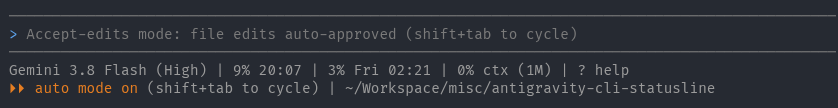
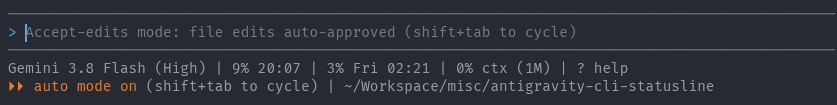
update screenshots

diff --git a/README.md b/README.md
@@ -8,6 +8,8 @@ A two-row statusline for the Antigravity CLI (`agy`) that displays active model 
 
 ![Antigravity CLI statusline in auto mode](assets/agy-cli-auto-mode.png)
 
+![Antigravity CLI statusline in plan mode](assets/agy-cli-plan-mode.png)
+
 - **Primary row**:
   + **Model**: Active model display name (e.g., `Gemini 3.8 Flash (High)`).
   + **5-hour quota**: Used percentage and next reset time (`HH:MM`).
